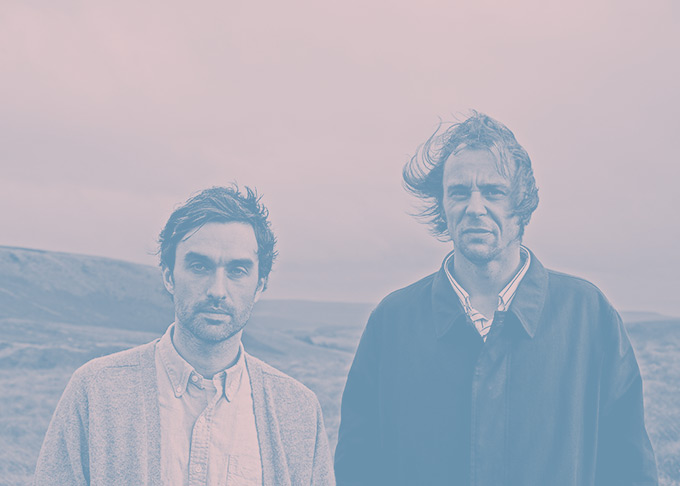
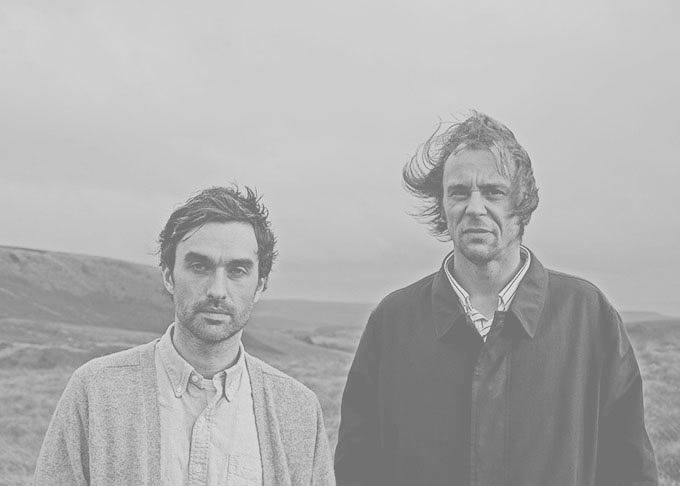
plus+plus

diff --git a/assets/css/stylish.css b/assets/css/stylish.css
@@ -6264,12 +6264,13 @@ button.close {
     A set of useful LESS mixins
     More info at: http://lesselements.com
   ---------------------------------------------------*/
+/*@pink: rgb(105, 145, 172);*/
 body {
   background: url('/assets/img/main/concrete_wall_2.png');
   font-family: 'Karla', sans-serif;
 }
 a {
-  color: #6991ac;
+  color: rgba(113, 113, 113, 0.85);
   -webkit-transition: all 0.35s ease-out;
   -moz-transition: all 0.35s ease-out;
   -o-transition: all 0.35s ease-out;
@@ -6339,7 +6340,10 @@ h5 {
   line-height: 28px;
   letter-spacing: -1px;
   font-weight: 100;
-  padding: 20px 211px 20px 20px;
+  width: 77px;
+  padding-left: 15px;
+  padding-top: 15px;
+  height: 100px;
   margin: 0px;
   word-break: break-all;
 }
@@ -6390,7 +6394,7 @@ h5 {
   overflow: hidden;
 }
 .artists-bookings .blue-img:hover img {
-  margin-left: -2.5%;
+  margin-left: -2%;
 }
 .header {
   background: rgba(245, 245, 245, 0.95);
@@ -6407,7 +6411,7 @@ h5 {
   border-color: transparent;
 }
 .header .navbar-default .navbar-nav > li > a {
-  color: #6991ac;
+  color: rgba(113, 113, 113, 0.85);
 }
 .header .navbar-nav > li > a {
   padding-top: 9px;
@@ -6427,7 +6431,7 @@ h5 {
 .header .navbar-default .navbar-nav > li > a:hover,
 .header .navbar-default .navbar-nav > li > a:focus {
   color: #FFFFFF;
-  background-color: #6991ac;
+  background-color: rgba(113, 113, 113, 0.85);
 }
 .header .logo {
   width: 140px;
@@ -6441,7 +6445,7 @@ h5 {
 .header .navbar-default .navbar-nav > .active > a:hover,
 .header .navbar-default .navbar-nav > .active > a:focus {
   color: #FFFFFF;
-  background-color: #6991ac;
+  background-color: rgba(113, 113, 113, 0.85);
 }
 .header .dropdown-menu {
   background-color: rgba(30, 30, 30, 0.85);
@@ -6464,7 +6468,7 @@ h5 {
 .artist-text h5 {
   text-transform: uppercase;
   margin-top: 0px;
-  color: #6991ac;
+  color: rgba(113, 113, 113, 0.85);
   letter-spacing: 1px;
   background: #FFFFFF;
   padding: 10px 20px;
@@ -6484,7 +6488,7 @@ h5 {
 }
 .artist-button a {
   padding: 10px 20px;
-  background: #6991ac;
+  background: rgba(113, 113, 113, 0.85);
   display: inline-block;
   color: #FFF;
 }
@@ -6501,7 +6505,7 @@ h5 {
   text-transform: uppercase;
   font-weight: 700;
   letter-spacing: 2px;
-  color: #6991ac;
+  color: rgba(113, 113, 113, 0.85);
 }
 .past-dates li {
   margin-bottom: 5px;
@@ -6559,7 +6563,7 @@ h5 {
 }
 .modal-header {
   border-bottom: 0px solid #e5e5e5;
-  background: rgba(105, 145, 172, 0.75);
+  background: rgba(113, 113, 113, 0.75);
 }
 .modal-header h3 {
   color: #FFFFFF;
@@ -6602,7 +6606,7 @@ h5 {
 .modal-footer .btn-default {
   font-family: 'Karla', sans-serif;
   color: #ffffff;
-  background-color: #6991ac;
+  background-color: rgba(113, 113, 113, 0.85);
   border: 0px solid #ffffff;
   text-transform: uppercase;
   letter-spacing: 2px;

diff --git a/assets/less/general.less b/assets/less/general.less
@@ -88,7 +88,10 @@ border-radius: 0px;
 		line-height: 28px;
 		letter-spacing: -1px;
 		font-weight: 100;
-		padding: 20px 211px 20px 20px;
+		width:77px;
+		padding-left: 15px;
+		padding-top: 15px;
+		height: 100px;
 		margin: 0px;
 		word-break:break-all;
 	}
@@ -121,7 +124,7 @@ border-radius: 0px;
 		overflow: hidden;
 
 		img {
-			margin-left: -2.5%;
+			margin-left: -2%;
 		}
 
 	}

diff --git a/assets/less/elements.less b/assets/less/elements.less
@@ -17,8 +17,9 @@
 @fundo:rgba(245, 245, 245, 0.95);
 @link: rgba(120, 120, 120, 0.35);
 @black: rgba(30, 30, 30, 0.85);
-@pink: rgb(105, 145, 172);
-@pink-alpha: rgba(105, 145, 172, 0.75);
+@pink: rgba(113, 113, 113, 0.55);
+/*@pink: rgb(105, 145, 172);*/
+@pink-alpha: rgba(113, 113, 113, 0.75);
 
 .gradient(@color: #F5F5F5, @start: #EEE, @stop: #FFF) {
   background: @color;
